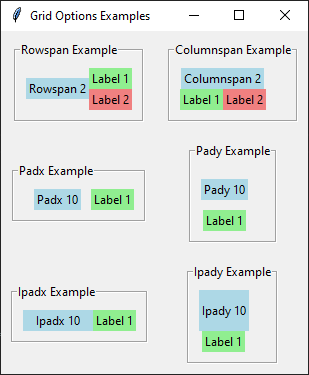
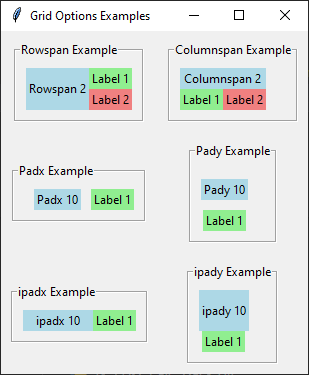
grid

diff --git a/docs/tk_geometry/python/tk_grid_options.py b/docs/tk_geometry/python/tk_grid_options.py
@@ -17,13 +17,13 @@ window.title("Grid Options Examples")
 
 # Rowspan example
 frame1 = create_frame(window, "Rowspan Example", 0, 0)
-add_label(frame1, "Rowspan 2", 0, 0, "lightblue", rowspan=2)
+add_label(frame1, "Rowspan 2", 0, 0, "lightblue", rowspan=2, sticky="ns")
 add_label(frame1, "Label 1", 0, 1, "lightgreen")
 add_label(frame1, "Label 2", 1, 1, "lightcoral")
 
 # Columnspan example
 frame2 = create_frame(window, "Columnspan Example", 0, 1)
-add_label(frame2, "Columnspan 2", 0, 0, "lightblue", columnspan=2)
+add_label(frame2, "Columnspan 2", 0, 0, "lightblue", columnspan=2, sticky="ew")
 add_label(frame2, "Label 1", 1, 0, "lightgreen")
 add_label(frame2, "Label 2", 1, 1, "lightcoral")
 
@@ -37,14 +37,14 @@ frame4 = create_frame(window, "Pady Example", 1, 1)
 add_label(frame4, "Pady 10", 0, 0, "lightblue", pady=10)
 add_label(frame4, "Label 1", 1, 0, "lightgreen")
 
-# Ipadx example
-frame5 = create_frame(window, "Ipadx Example", 2, 0)
-add_label(frame5, "Ipadx 10", 0, 0, "lightblue", ipadx=10)
+# ipadx example
+frame5 = create_frame(window, "ipadx Example", 2, 0)
+add_label(frame5, "ipadx 10", 0, 0, "lightblue", ipadx=10)
 add_label(frame5, "Label 1", 0, 1, "lightgreen")
 
-# Ipady example
-frame6 = create_frame(window, "Ipady Example", 2, 1)
-add_label(frame6, "Ipady 10", 0, 0, "lightblue", ipady=10)
+# ipady example
+frame6 = create_frame(window, "ipady Example", 2, 1)
+add_label(frame6, "ipady 10", 0, 0, "lightblue", ipady=10)
 add_label(frame6, "Label 1", 1, 0, "lightgreen")
 
 # Start the main event loop

diff --git a/docs/tk_geometry/python/tk_grid.py b/docs/tk_geometry/python/tk_grid.py
@@ -13,10 +13,10 @@ label3 = tk.Label(window, text="label 3", bg="light blue")
 label4 = tk.Label(window, text="label 4", bg="light green")
 
 # place widgets in grid layout
-label1.grid(row=0,column=0)
-label2.grid(row=1,column=1)
-label3.grid(row=2,column=2) 
-label4.grid(row=3,column=0, columnspan=3, ipadx=60)
+label1.grid(row=0, column=0)
+label2.grid(row=1, column=1)
+label3.grid(row=2, column=2)
+label4.grid(row=3, column=0, columnspan=3, sticky="ew")
 
 # Start the main event loop
 window.mainloop()

diff --git a/docs/tk_geometry/tk_geometry_grid.rst b/docs/tk_geometry/tk_geometry_grid.rst
@@ -51,6 +51,14 @@ columnspan
     | Specify number of columns, **n**, for a widget to span across
     | e.g. grid(row=0, column=0, columnspan=2) to span the widget across 2 columns.
 
+sticky
+~~~~~~~~~~~
+
+.. py:function:: widget.grid(row=index_r, column=index_c, sticky=direction)
+
+    | Make the widget stick to the specified sides of the cell.
+    | e.g. widget.grid(row=0, column=0, sticky="ew") to make it expand horizontally.
+
 padx
 ~~~~~~~~~~~~~
 
@@ -111,10 +119,10 @@ Example code
     label4 = tk.Label(window, text="label 4", bg="light green")
 
     # place widgets in grid layout
-    label1.grid(row=0,column=0)
-    label2.grid(row=1,column=1)
-    label3.grid(row=2,column=2)
-    label4.grid(row=3,column=0, columnspan=3, ipadx=60)
+    label1.grid(row=0, column=0)
+    label2.grid(row=1, column=1)
+    label3.grid(row=2, column=2)
+    label4.grid(row=3, column=0, columnspan=3, sticky="ew")
 
     # Start the main event loop
     window.mainloop()
